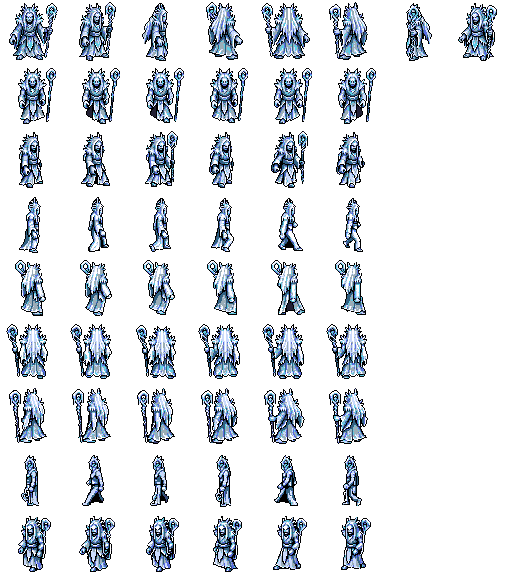
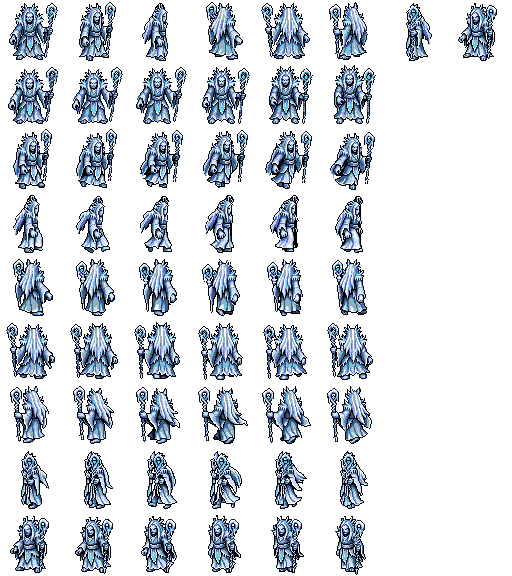
Switch winter_snow_witch walk from template to v3, close walk re-do
v3 walk keeps the witch's size (walk/idle bbox ratio 1.04); east re-rolled
so the staff no longer pops in mid-cycle. All template-walk shrink cases are
now redone; handoff section marked complete.

Claude-Session: https://claude.ai/code/session_016PUWeHFa5hxBbma7ceDCsG

Changed region(s): [[0.0, 0.0938, 0.75, 1.0]]

diff --git a/assets/characters/ASSET_REGISTRY.md b/assets/characters/ASSET_REGISTRY.md
@@ -303,9 +303,16 @@ via `reduce_colors` against `assets/palettes/db32.png`).
   Idle rotations (8 dir): all 64x64. My own visual QA: gaunt frost witch, icicle-fringed robes,
   ice-spike hair, glowing cyan eyes, ice staff visibly gripped — reads well. **User accepted**
   (batch review).
-- Walk `animation_group_id`: `089a8a40-bea8-4253-a5f2-4f1375a127cf` (template `walk`, all 8
-  directions). `reduce_colors` against DB32 done locally (see forest_ant note). All 56 frames:
-  **0 off-palette opaque pixels**. Atlas saved:
+- Walk (superseded): template `walk` group `089a8a40-...` — shrank the witch; deleted.
+- Walk (current): `animation_group_id` `f9189508-8db5-4ddf-8f3a-d7f954176918`, `mode="v3"` custom,
+  `frame_count=6`, `keep_first_frame=false`, all 8 directions, action "slow gliding walk with
+  long flowing frozen robes swaying, gripping the ice-crystal staff firmly and keeping it
+  clearly visible, body keeps the same size and proportions as the standing pose". **East
+  re-rolled twice**: idle east hides the staff behind the body and v3 kept making it pop in
+  mid-cycle; final east uses "...the staff stays on the far side hidden behind the body in every
+  frame exactly as in the standing pose, no new objects appear..." (one faint staff edge in a
+  single frame, acceptable). 0 px clipped, walk/idle ratio **1.04**, DB32 0 off-palette. Rebuilt
+  via `tools/process_pixellab_zip.py`. Atlas:
   `assets/characters/winter_snow_witch/winter_snow_witch_Idle.{png,json}`.
 
 ### winter_ice_spirit — GDD "Ледяной дух" (Биом 3 — Зима; ranged/melee behavior discrepancy
@@ -410,7 +417,7 @@ Still blocked on author clarification per the ТЗ: `forest_wasp_swarm`, `desert
 all 4 bosses (need go-ahead on general direction before spending generations, `sand_naga`'s
 ranged-state prop also unconfirmed).
 
-## Walk re-do in progress (handoff, 2026-09-23)
+## Walk re-do (handoff, 2026-09-23 — complete)
 
 Template `walk` re-poses every character onto a standard human skeleton: hulking creatures
 shrink (forest_ant walk/idle bbox-area ratio 0.55, bone_golem 0.62) and legless ones grow legs
@@ -423,19 +430,11 @@ walk/idle ratio, builds the atlas). Target ratio ~0.9-1.05.
 Done with v3 walk (atlas on disk is final): forest_ant (0.97), deadlands_bone_golem (0.95),
 deadlands_skeleton (1.03, NW re-rolled for a flipping shield), winter_ice_spirit (0.98, NE
 re-rolled for a darkening core), desert_mummy (1.03), deadlands_ghost (1.03), winter_ice_goblin
-(0.99, 13 px clipped, all 8 dirs match idle facing, sword visible in every direction),
-desert_sand_spirit (1.00; S/SE/SW tendril sway flagged for user check).
+(0.99, all 8 dirs match idle facing, sword visible), desert_sand_spirit (1.00; S/SE/SW tendril
+sway flagged for user check), winter_snow_witch (1.04, east re-rolled twice for a popping staff).
+To re-roll one direction: `delete_animation(character_id, animation_group_id=..., direction=...)`,
+then `animate_character` into the same group with `animation_name="walk"`.
 
-Still to finish (atlases on disk are the OLD shrunken template-walk versions):
-- winter_snow_witch `7f896095-bfc7-4657-a29d-4623aa5d4497`, v3 group `f9189508-8db5-4ddf-8f3a-d7f954176918`,
-  7/8 directions done and good (ratio 1.06, 0 px clipped). Action: "slow gliding walk with long
-  flowing frozen robes swaying, gripping the ice-crystal staff firmly and keeping it clearly
-  visible, body keeps the same size and proportions as the standing pose". **East re-rolled
-  twice**: idle east hides the staff behind the body and v3 kept making it pop in mid-cycle;
-  third try uses "the staff stays on the far side hidden behind the body in every frame exactly
-  as in the standing pose, no new objects appear" (delete one direction with
-  `delete_animation(..., animation_group_id=..., direction="east")`, then re-animate into the
-  same group).
+Walk re-do complete — no v3 jobs outstanding.
 - winter_yeti (0.87) and forest_wolf (dog template, 0.89) left on template walk — within range.
-After each finishes: run process_pixellab_zip.py, eyeball the preview for per-direction
-glitches, update the entry above.
+Pending user checks: winter_ice_goblin sword visibility, desert_sand_spirit S/SE/SW tendrils.
